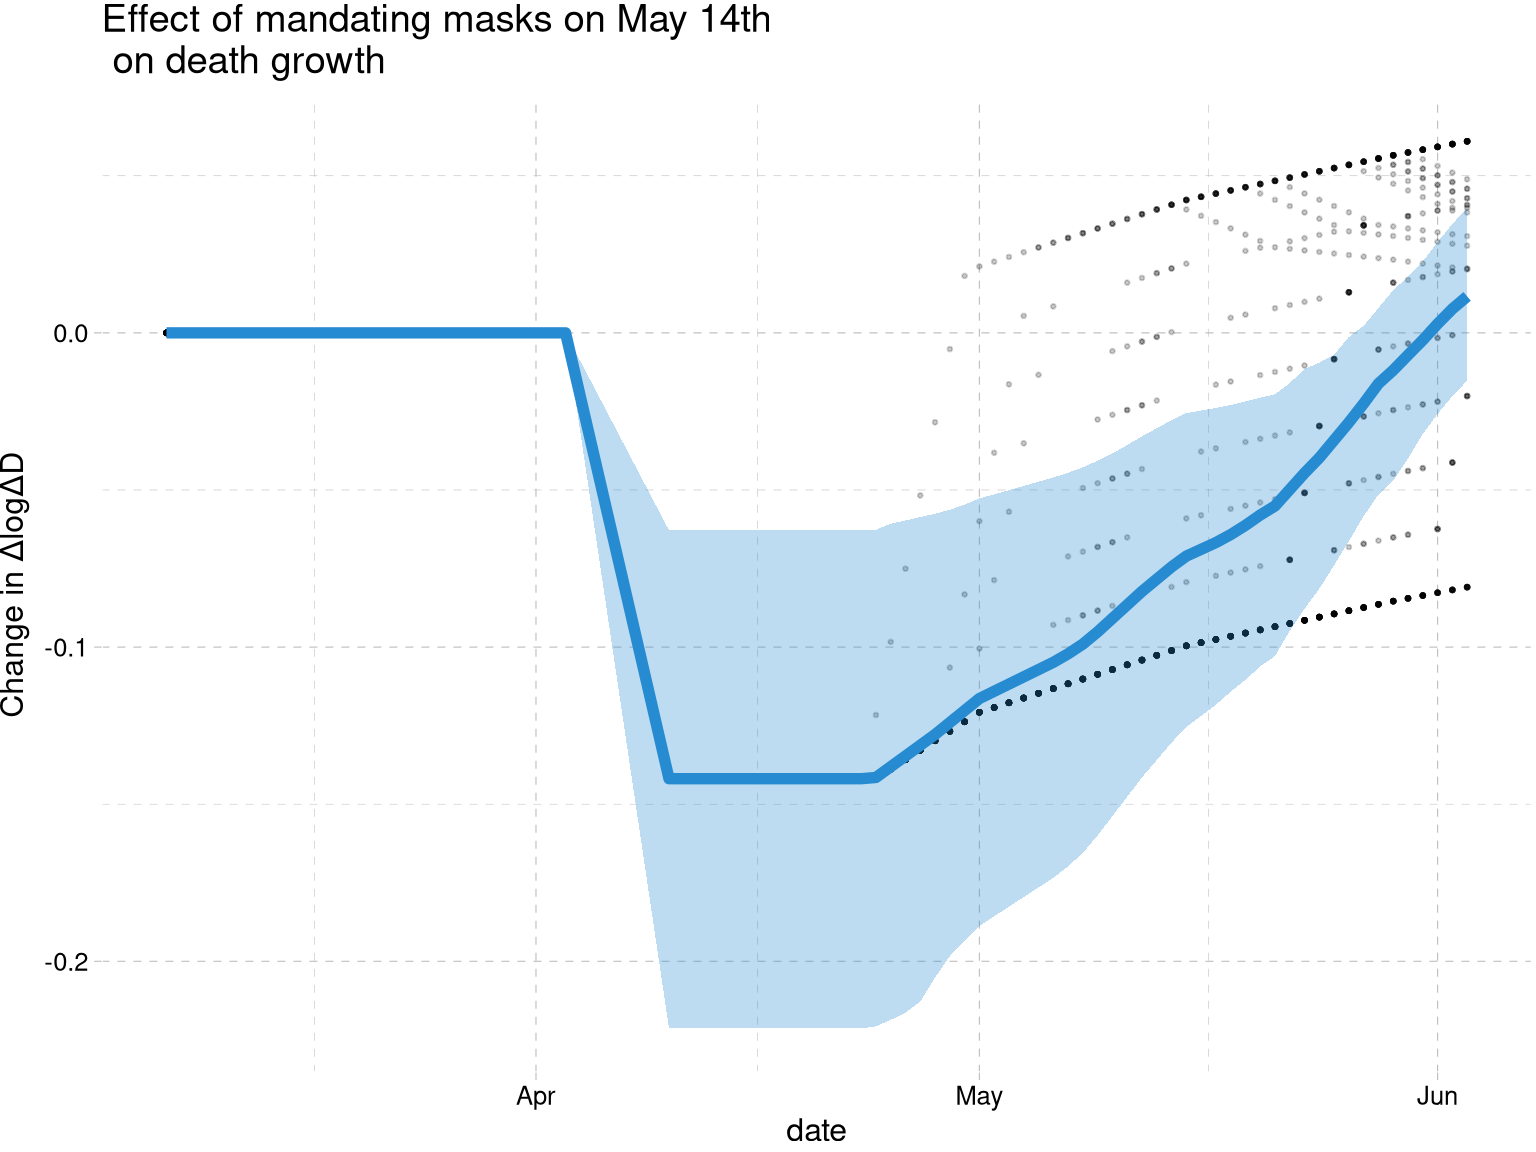
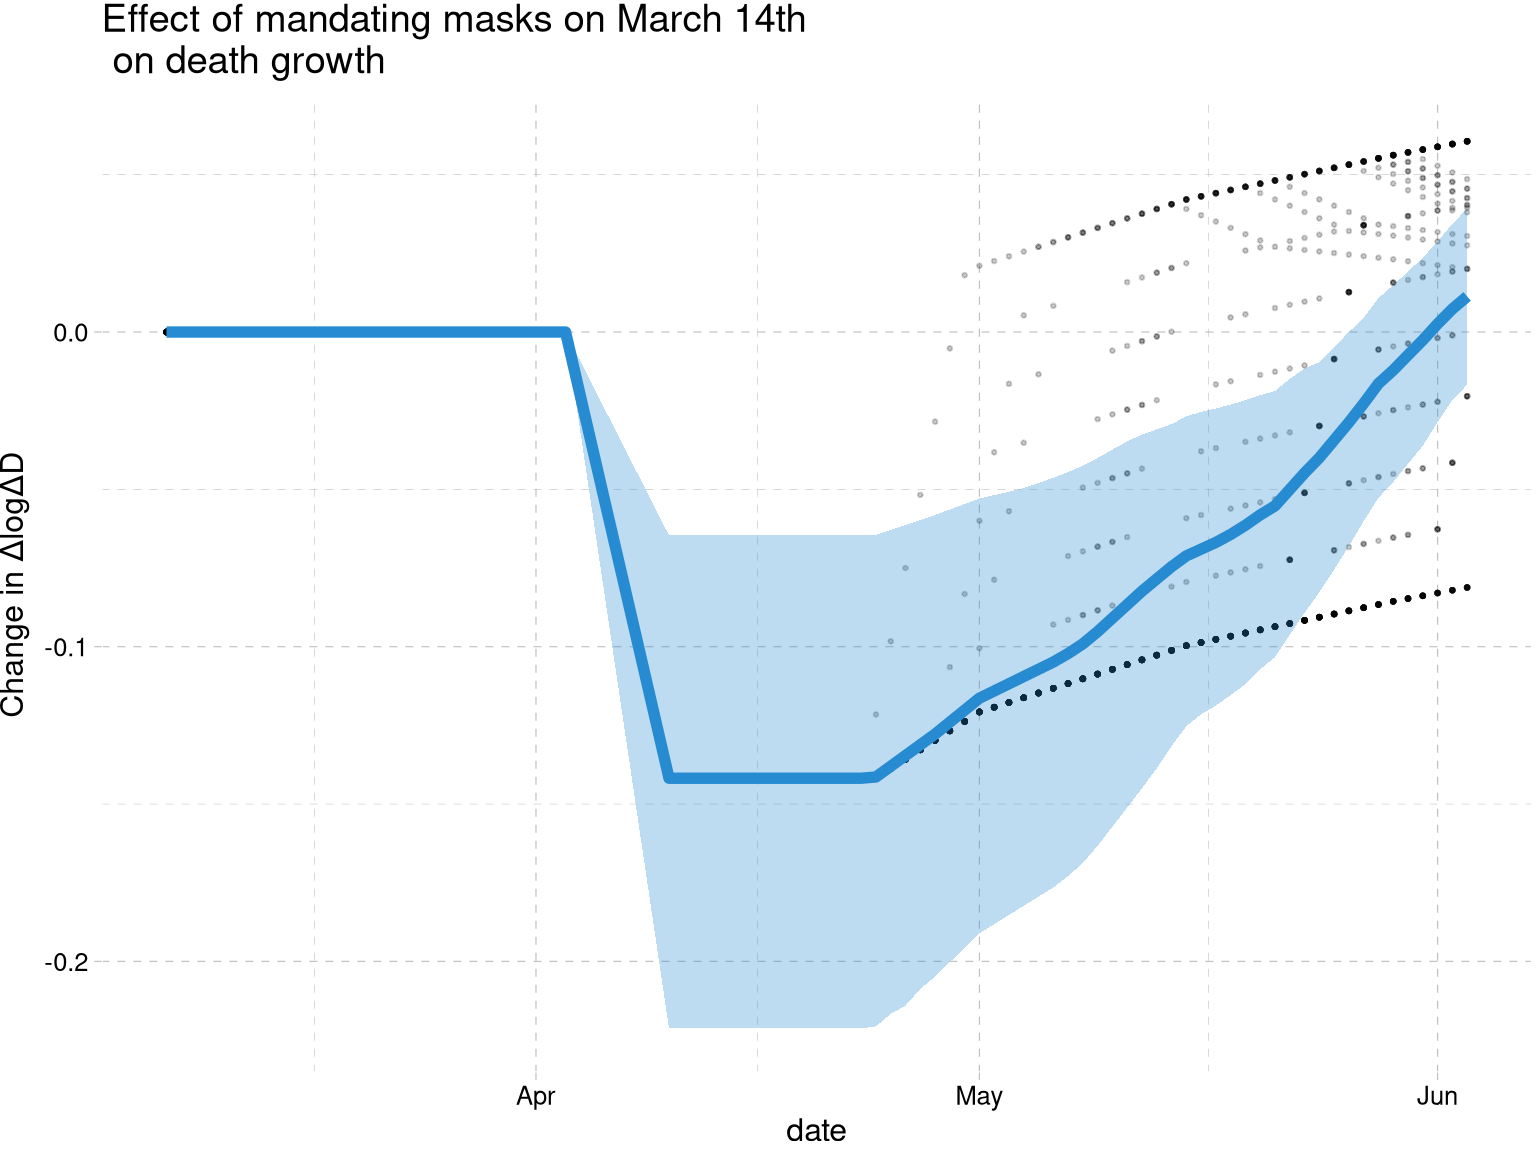
Mon 31 Aug 2020 02:26:17 PM PDT

diff --git a/cf-pindex.html b/cf-pindex.html
@@ -951,7 +951,7 @@ figs$r</code></pre>
 </div>
 <div id="masks-1" class="section level2" number="4.2">
 <h2 number="4.2"><span class="header-section-number">4.2</span> Masks</h2>
-<p>We now look at what happens when all states impose a mask mandate on May 14th.</p>
+<p>We now look at what happens when all states impose a mask mandate on March 14th.</p>
 <pre class="r"><code>cf &lt;- df
 cf[,&quot;Mandate.face.mask.use.by.employees.in.public.facing.businesses&quot;]  &lt;- as.Date(&quot;2020-03-14&quot;)
 cf[,&quot;pmaskbus&quot;] &lt;-
@@ -969,7 +969,7 @@ cfmask &lt;- do.call(rbind, lapply(cfmasklist, function(x) x$edf))</code></pre>
 <pre class="r"><code>cfmask &lt;- merge(cfmask, abbrv, by=&quot;state&quot;)
 for (st in c(&quot;Washington&quot;,&quot;Illinois&quot;,&quot;Massachusetts&quot;)) {
   f &lt;- cfplots(st, cfmask, yvar=&quot;deaths&quot;, data=df)
-  print(f$figp +  ggtitle(sprintf(&quot;Effect of mandating masks on May 14th in %s&quot;,st)))
+  print(f$figp +  ggtitle(sprintf(&quot;Effect of mandating masks on March 14th in %s&quot;,st)))
 
   figdev(sprintf(&quot;%s/tex/tables_and_figures/%s-mask-dgrowth_deaths_idx.pdf&quot;,rootdir,st), width=5,height=3.75)
   print(f$figdp)
@@ -991,7 +991,7 @@ for (st in c(&quot;Washington&quot;,&quot;Illinois&quot;,&quot;Massachusetts&quo
 
 ## Warning: Ignoring unknown aesthetics: fill</code></pre>
 <p><img src="cf-pindex_files/figure-html/unnamed-chunk-5-2.png" width="768" /><img src="cf-pindex_files/figure-html/unnamed-chunk-5-3.png" width="768" /></p>
-<pre class="r"><code>figs &lt;- nationalplots(maskall, cfmask, &quot;mandating masks on May 14th\n&quot;, yvar=&quot;deaths&quot;)
+<pre class="r"><code>figs &lt;- nationalplots(maskall, cfmask, &quot;mandating masks on March 14th\n&quot;, yvar=&quot;deaths&quot;)
 
 figdev(paste(rootdir,&quot;tex/tables_and_figures/us-mask-dgrowth_deaths_idx.pdf&quot;,sep=&quot;/&quot;), width=5,height=3.75)
 figs$g</code></pre>
